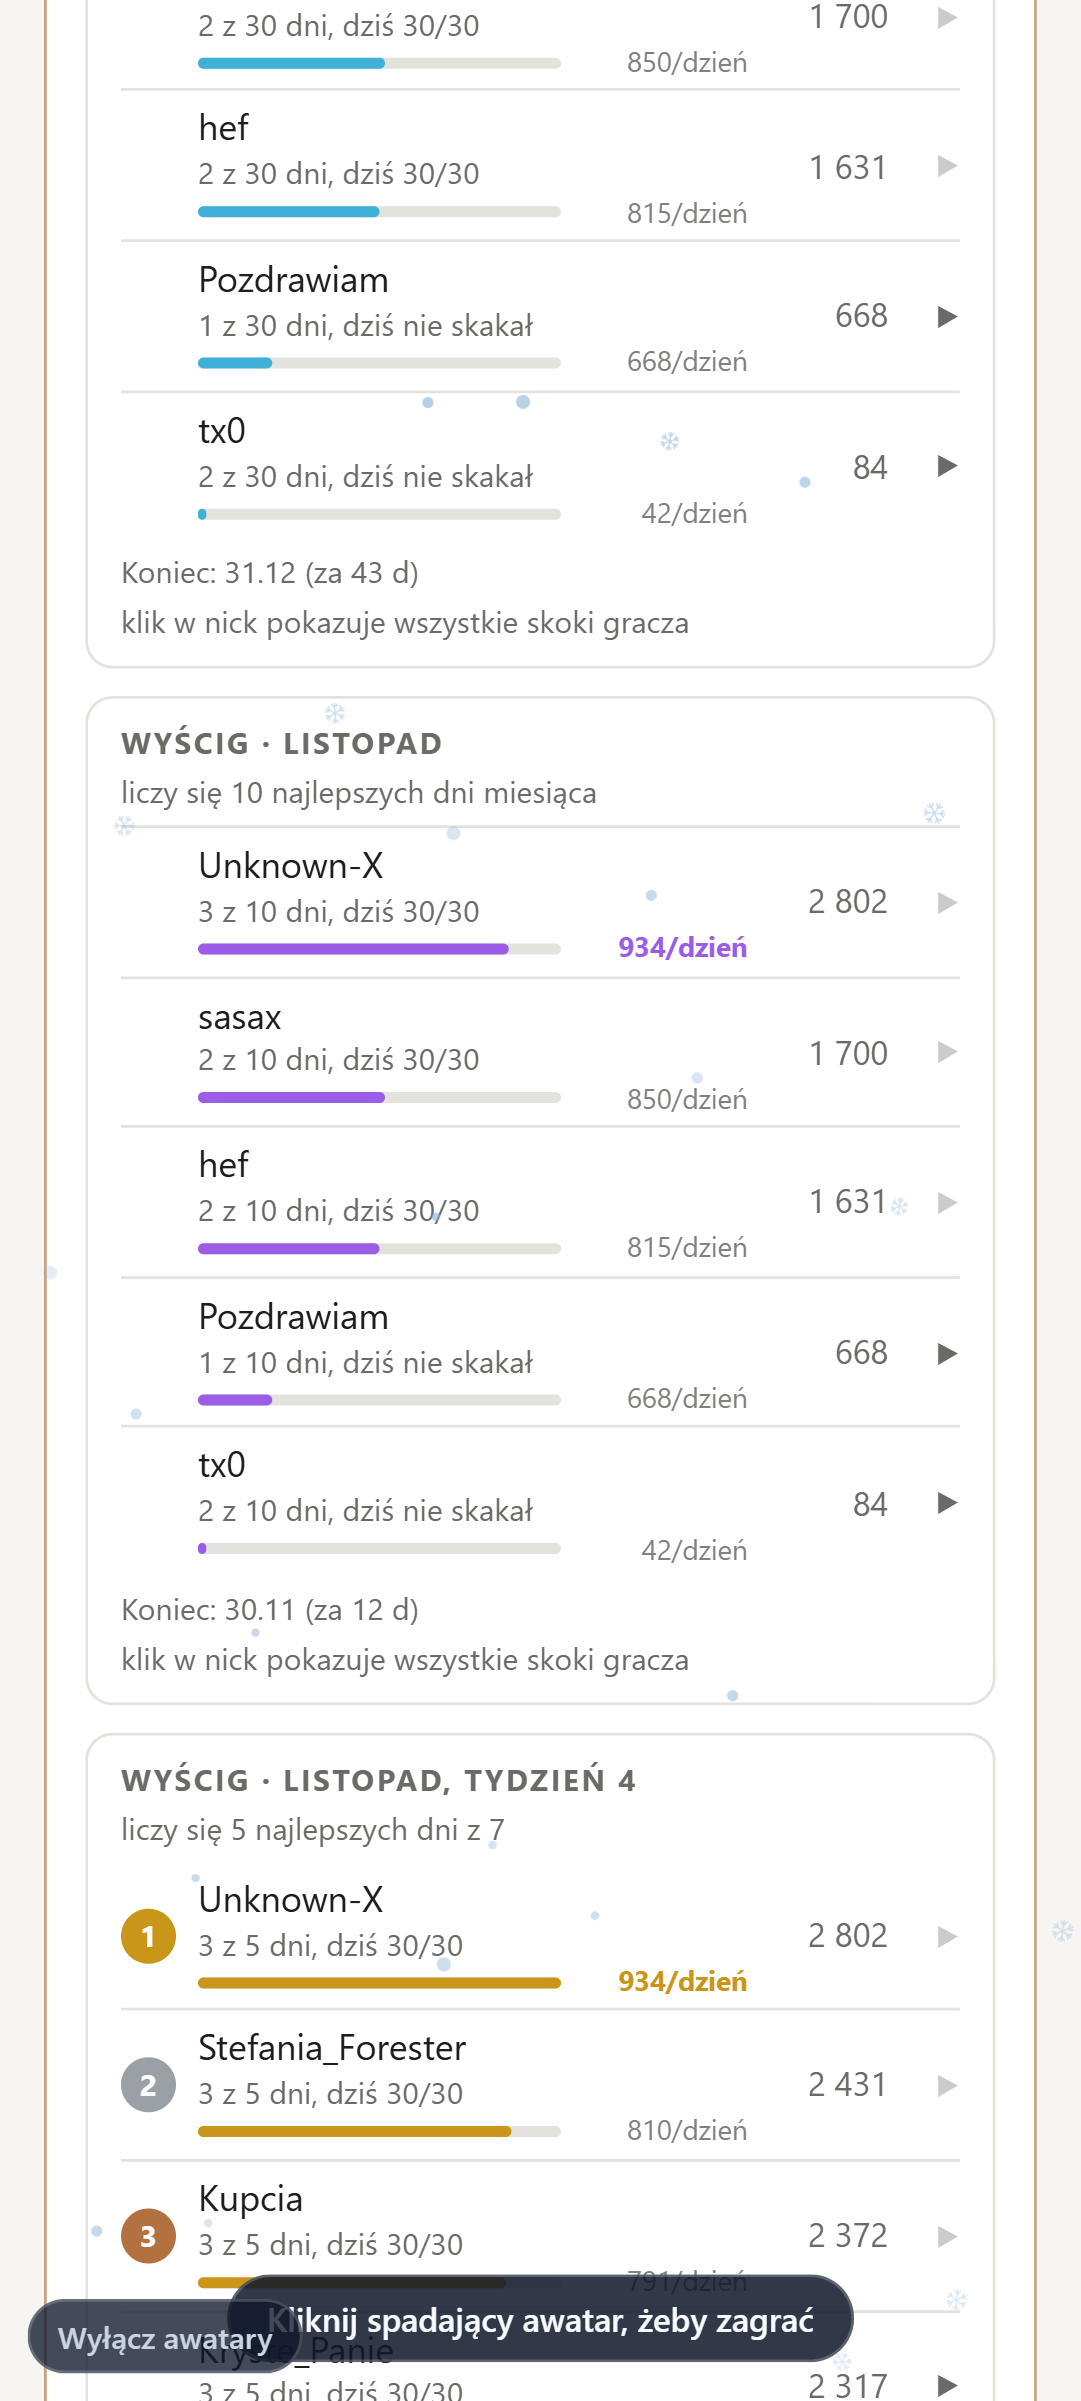
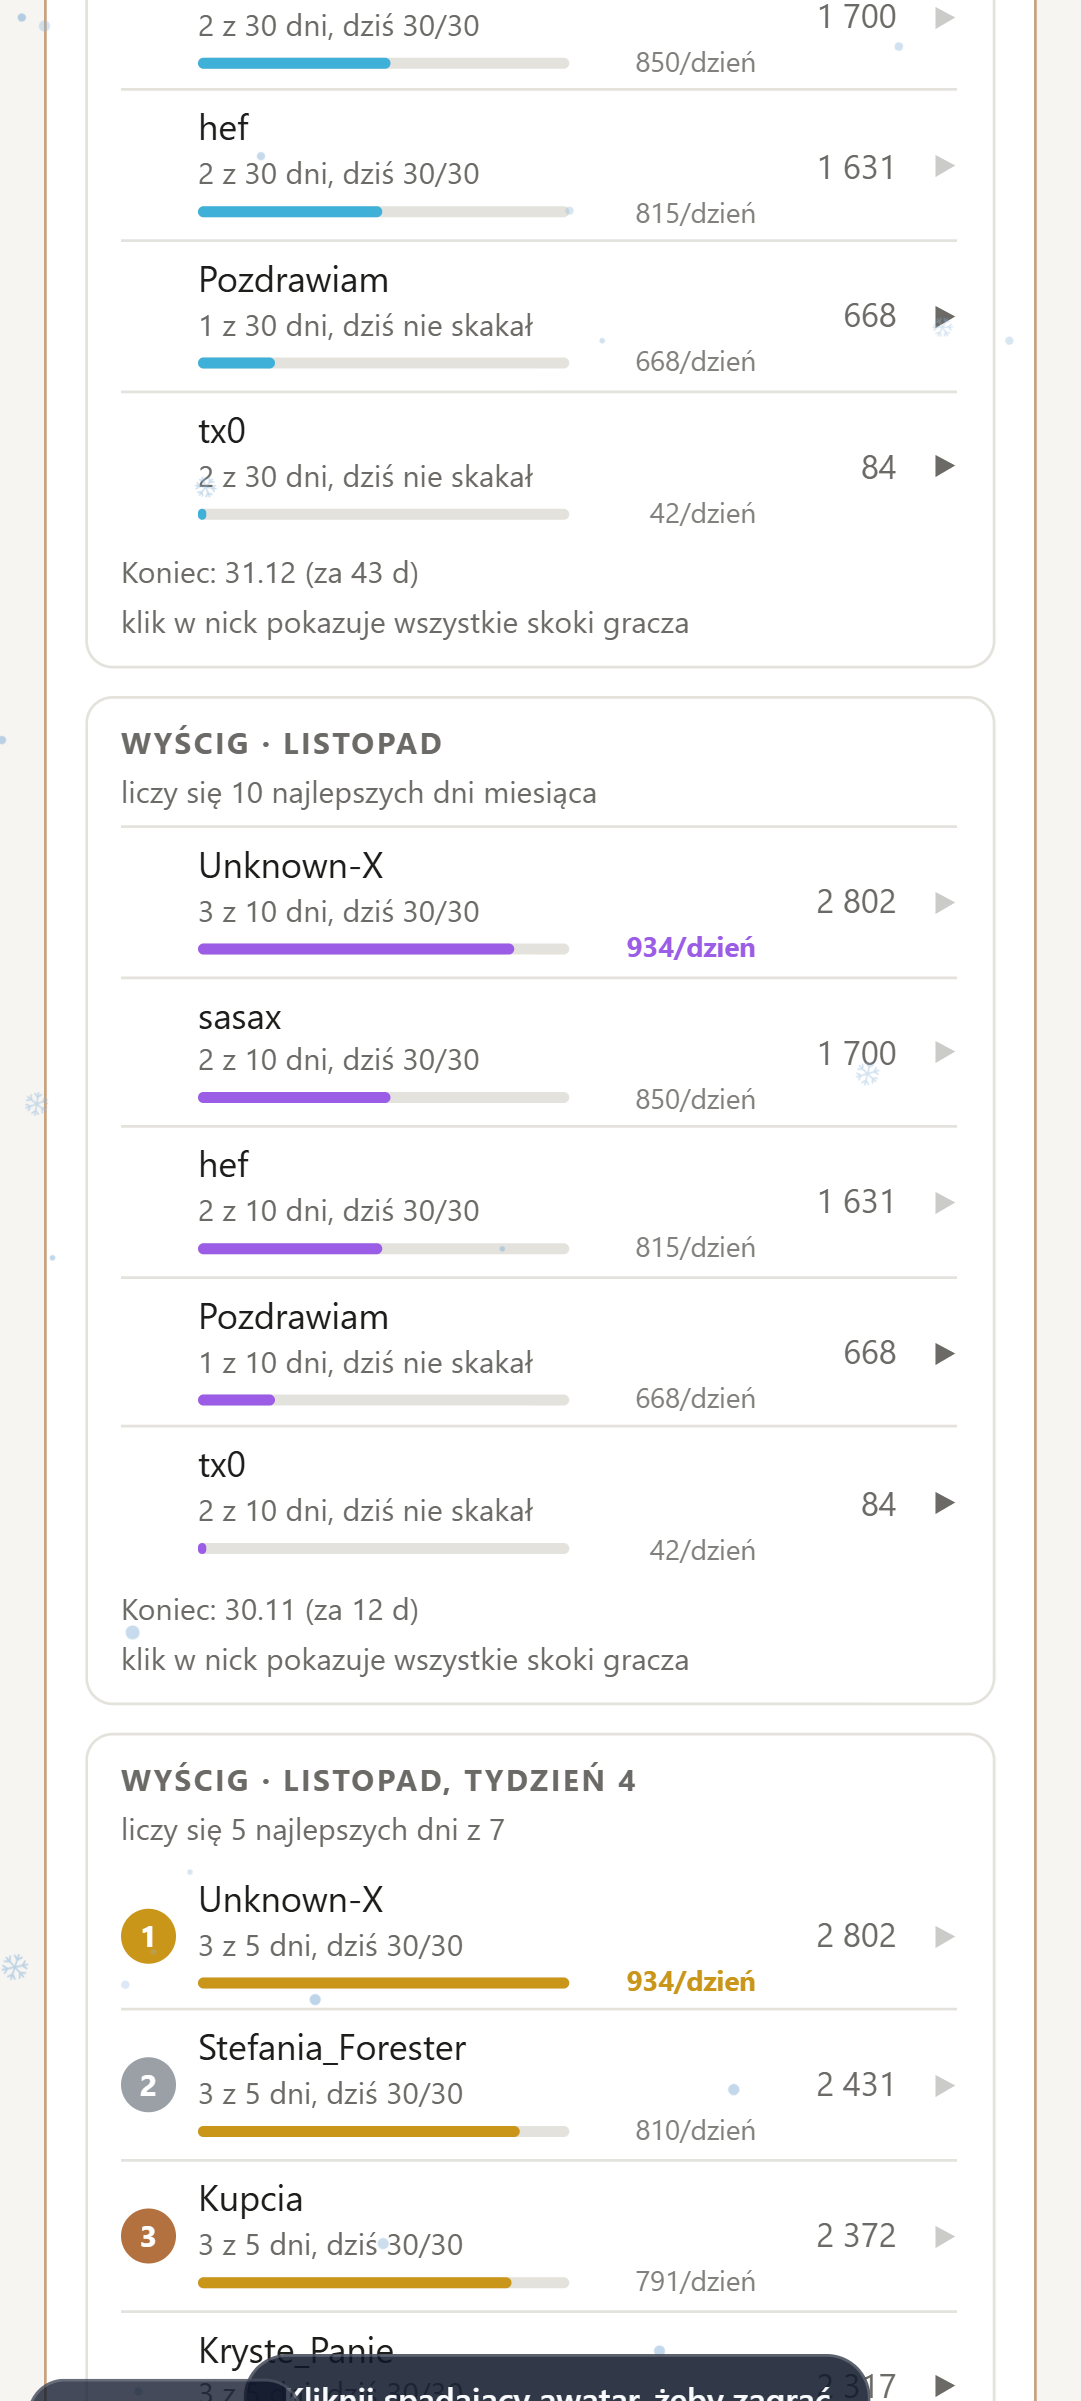
d2jsp strona: pasek przewijania 3 px, 9 px od strzalek, bez ucinania szarej linijki (Mateusz 18.11)

diff --git a/d2jsp/strona.js b/d2jsp/strona.js
@@ -66,13 +66,17 @@
 #telemark .tmr{border:1px solid var(--line);border-radius:10px;padding:8px 12px;min-width:0}
 #telemark .tmr h4{margin:0 0 4px;font-size:11px;letter-spacing:.08em;text-transform:uppercase;color:var(--mute);font-weight:700}
 /* Bez overscroll-behavior: na końcu listy palec przewija dalej stronę (na telefonie listy zajmują pół ekranu). */
-#telemark .tmr ul{margin:0;padding:0;overflow-y:auto}
-/* Pasek przewijania 5 px, szary w obu motywach, zaokrąglony (Mateusz 18.11: domyślny za szeroki; próba A z
+/* Odstęp 9 px między ▶ a paskiem (Mateusz 18.11: pasek „bardzo blisko tych strzałek”; runda 2 prób). Miejsce na
+   odstęp i pasek: lista wchodzi 8 px w prawy margines karty, a pole ▶ w wyścigach jest o 4 px węższe (puste miejsce
+   przed strzałką), więc szara linijka pod nickiem dalej mieści „30 z 30 dni, dziś nie skakał” (sprawdz.mjs). */
+#telemark .tmr ul{margin:0 -8px 0 0;padding:0 9px 0 0;overflow-y:auto}
+#telemark .tmr .pl,#telemark .tmr .pl-e{width:1.4em}
+/* Pasek przewijania 3 px, szary w obu motywach, zaokrąglony (Mateusz 18.11: domyślny za szeroki, potem „węższy”;
    proto/wyscig-przewijanie/proby.mjs). W kolorze wyścigu wyglądał jak kolejny pasek punktów. Firefox nie zna
    ::-webkit-scrollbar: dostaje swój cienki pasek w tym samym kolorze. */
-#telemark .tmr ul::-webkit-scrollbar{width:5px}
+#telemark .tmr ul::-webkit-scrollbar{width:3px}
 #telemark .tmr ul::-webkit-scrollbar-track{background:transparent}
-#telemark .tmr ul::-webkit-scrollbar-thumb{background:color-mix(in srgb,var(--mute) 45%,transparent);border-radius:5px}
+#telemark .tmr ul::-webkit-scrollbar-thumb{background:color-mix(in srgb,var(--mute) 45%,transparent);border-radius:3px}
 #telemark .tmr ul::-webkit-scrollbar-thumb:hover{background:var(--mute)}
 @supports not selector(::-webkit-scrollbar){#telemark .tmr ul{scrollbar-width:thin;scrollbar-color:color-mix(in srgb,var(--mute) 45%,transparent) transparent}}
 #telemark .tmr li{list-style:none;display:flex;align-items:center;gap:8px;padding:4px 0;border-bottom:1px solid var(--line);font-size:13px}
